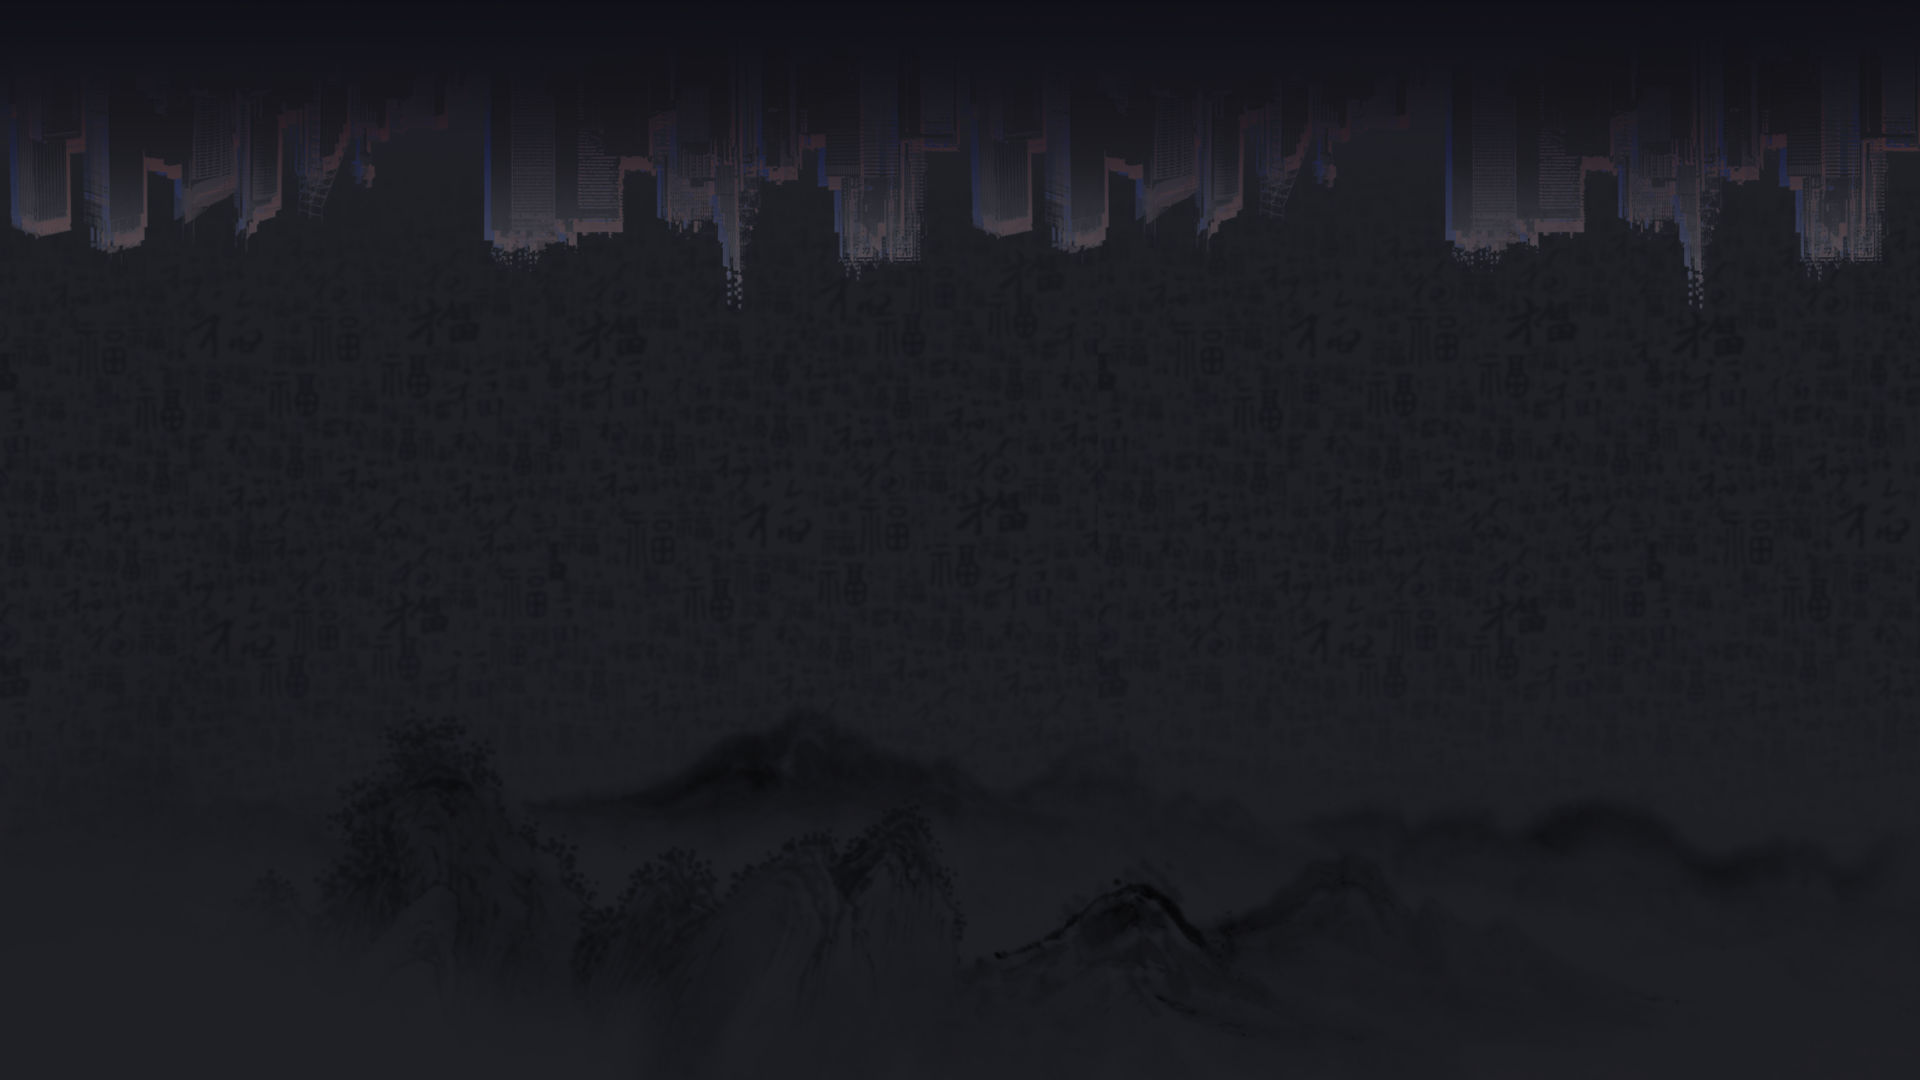
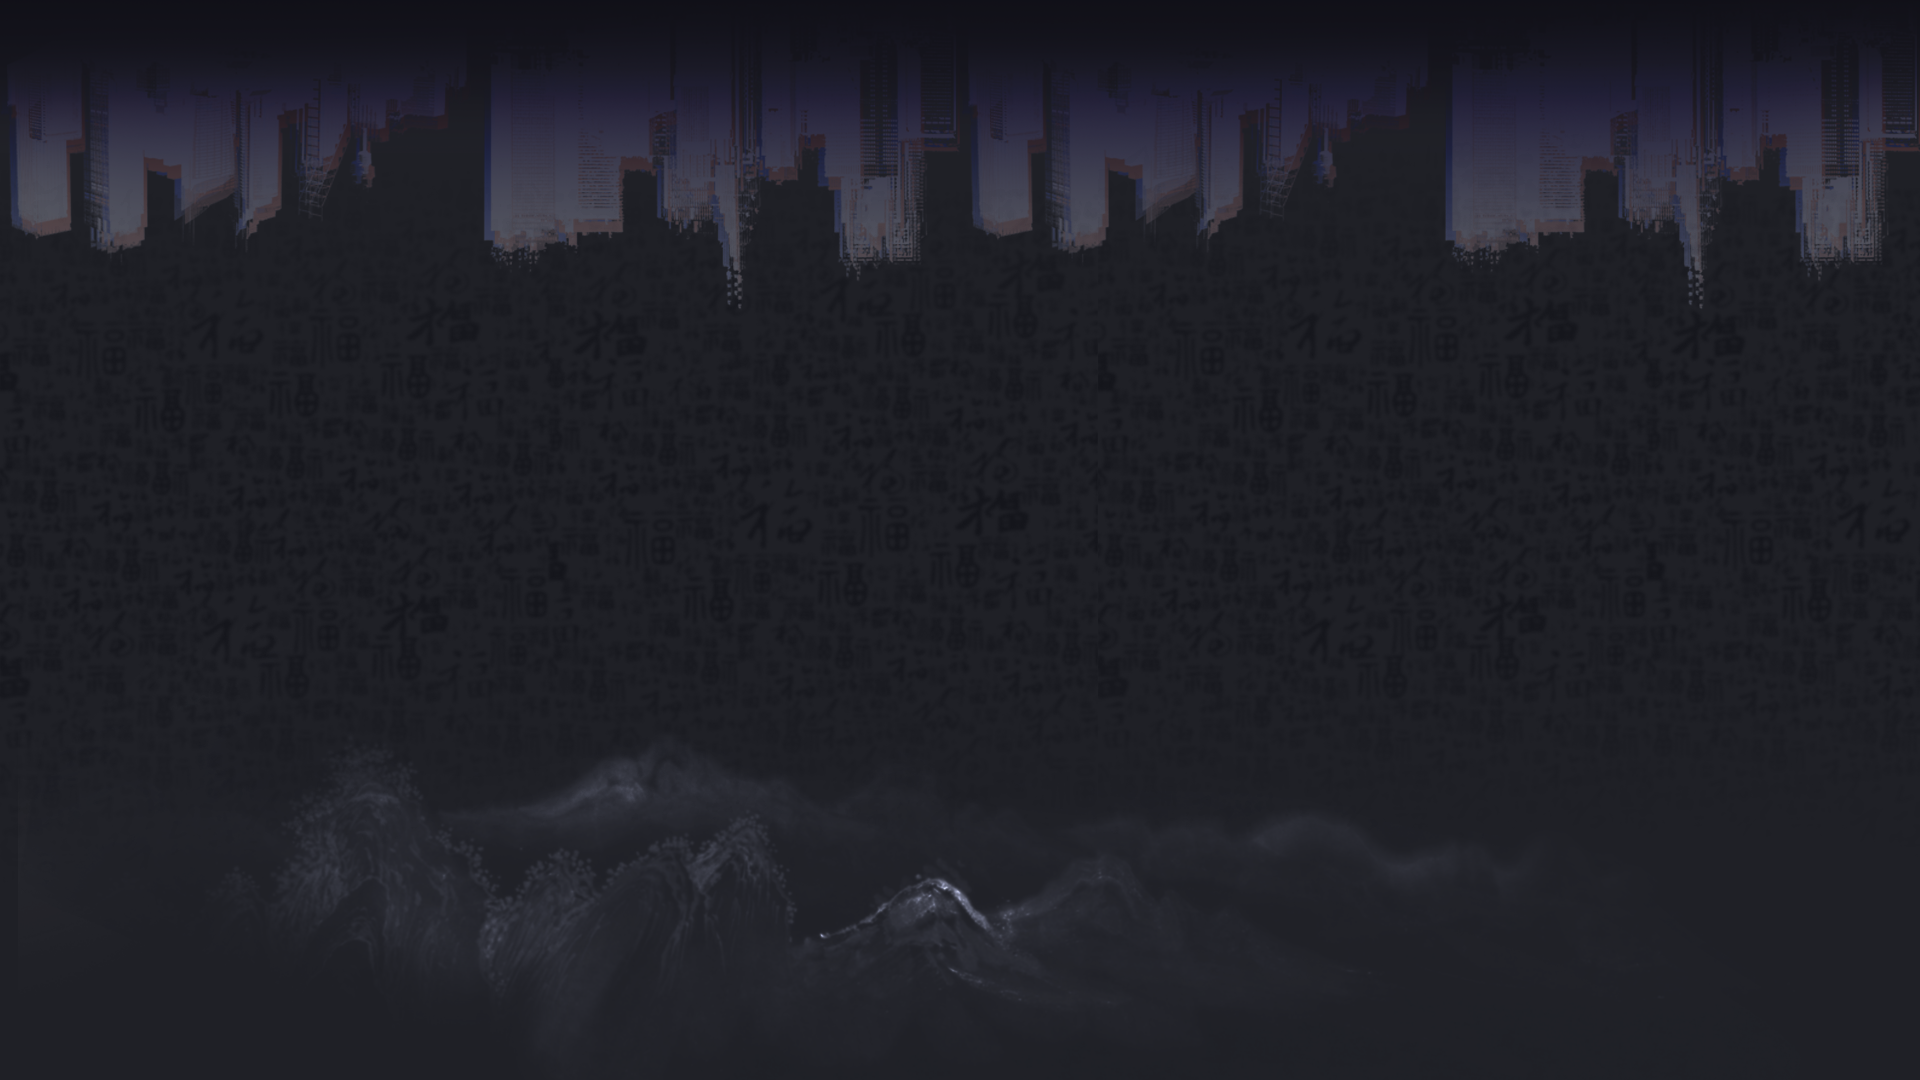
Update background images and change size to contain
- Update black.png: 839KB -> 862KB
- Update white.png: 1.1MB (same size, new image)
- Change background-size from cover to contain
- Applied to theme-ui single and multiple columns layouts
- Background will now fit within viewport instead of covering

diff --git a/app/javascript/styles/theme-ui/layout-multiple-columns.scss b/app/javascript/styles/theme-ui/layout-multiple-columns.scss
@@ -357,7 +357,7 @@ body.theme-default.layout-multiple-columns {
 
 body.layout-multiple-columns {
   background-image: var(--bg-image);
-  background-size: cover;
+  background-size: contain;
   background-attachment: fixed;
   background-position: center bottom;
   color: var(--color-fg);

diff --git a/app/javascript/styles/theme-ui/layout-single-column.scss b/app/javascript/styles/theme-ui/layout-single-column.scss
@@ -387,7 +387,7 @@ body.theme-default.layout-single-column {
 
 body.layout-single-column {
   background-image: var(--bg-image);
-  background-size: cover;
+  background-size: contain;
   background-attachment: fixed;
   background-position: center bottom;
   color: var(--color-fg);
